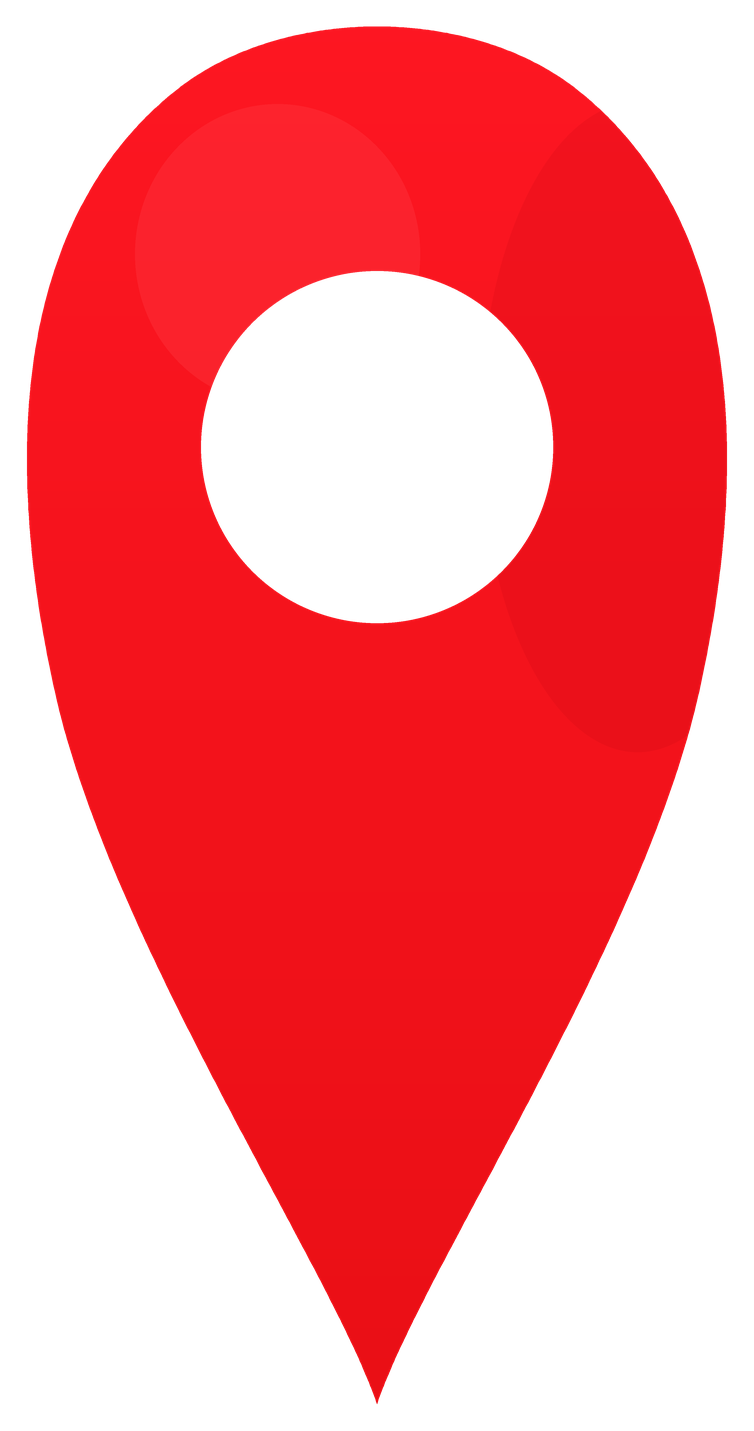
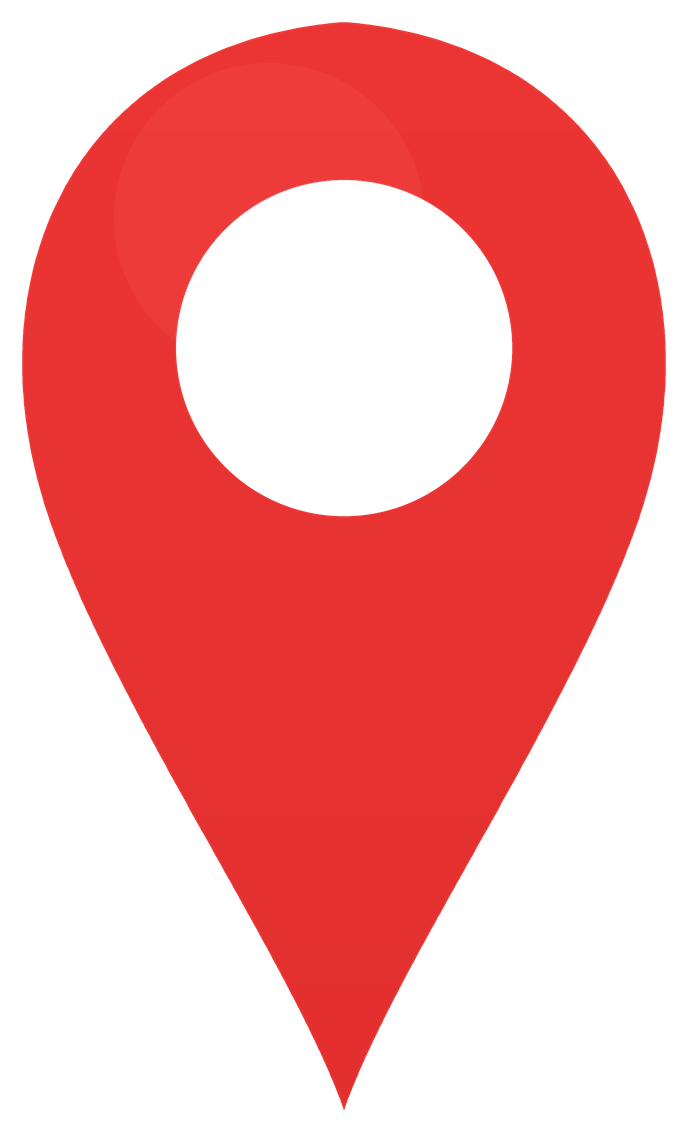
Soften location pin marker

diff --git a/index.html b/index.html
@@ -431,10 +431,10 @@
       if (!locationPinReady) return false;
 
       ctx.save();
-      ctx.shadowColor = `rgba(0, 0, 0, ${Number(controls.shadowStrength.value) / 100})`;
-      ctx.shadowBlur = Math.max(2, height * 0.08);
-      ctx.shadowOffsetX = Math.max(1, height * 0.025);
-      ctx.shadowOffsetY = Math.max(1, height * 0.035);
+      ctx.shadowColor = `rgba(0, 0, 0, ${(Number(controls.shadowStrength.value) / 100) * 0.28})`;
+      ctx.shadowBlur = Math.max(1, height * 0.035);
+      ctx.shadowOffsetX = Math.max(0.5, height * 0.012);
+      ctx.shadowOffsetY = Math.max(0.5, height * 0.016);
       ctx.drawImage(locationPinImage, x, y, width, height);
       ctx.restore();
       return true;
@@ -599,7 +599,7 @@
       );
       const textHeight = ascent + descent;
       const gap = 22 * scale;
-      const pinHeight = textHeight;
+      const pinHeight = textHeight * 0.72;
       const pinWidth = getLocationPinWidth(pinHeight);
       const totalWidth = dateMetrics.width + gap + weekMetrics.width + gap + pinWidth + 8 * scale + locationMetrics.width;
       ctx.restore();
@@ -704,7 +704,7 @@
       ctx.restore();
       drawText(meta, infoX, timeBottom - metaDescent, metaSize, 700);
 
-      const pinHeight = locationSize;
+      const pinHeight = locationSize * 0.72;
       const pinWidth = getLocationPinWidth(pinHeight);
       drawLocationPin(x, locationY, pinHeight);
       drawText(controls.locationText.value.trim() || "桂林市象山区 · 广西壮族自治区南溪山医院", x + pinWidth + 12 * s, locationY, locationSize, 700);

diff --git a/sw.js b/sw.js
@@ -1,4 +1,4 @@
-const CACHE_NAME = "watermark-camera-public-v5";
+const CACHE_NAME = "watermark-camera-public-v6";
 const ASSETS = [
   "./",
   "./index.html",
